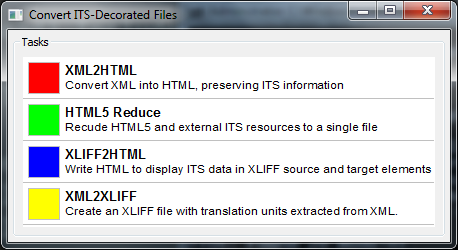
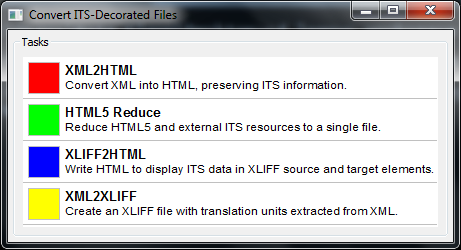
Fixed typos found by Niki

diff --git a/docs/html/Programming_Guide.html b/docs/html/Programming_Guide.html
@@ -30,7 +30,7 @@
   <ul   class='indexList indexList2'>
     <li class='indexItem indexItem2'><a href='#Overview'>Overview</a>
     <ul   class='indexList indexList3'>
-      <li class='indexItem indexItem3'><a href='#ITS'>ITS</a>
+      <li class='indexItem indexItem3'><a href='#Internationalization_Tag_Set'>Internationalization Tag Set</a>
       <li class='indexItem indexItem3'><a href='#WICS'>WICS</a>
     </ul>
     <li class='indexItem indexItem2'><a href='#Preserving_ITS_Information_During_Conversion'>Preserving ITS Information During Conversion</a>
@@ -76,11 +76,11 @@ name="Overview"
 >Overview</a></h2>
 
 <h3><a class='u' href='#___top' title='click to go to top of document'
-name="ITS"
->ITS</a></h3>
+name="Internationalization_Tag_Set"
+>Internationalization Tag Set</a></h3>
 
-<p>ITS,
-or the Internationalization Tag Set,
+<p>The Internationalization Tag Set,
+or ITS,
 is a standard for adding internalization-related information to XML,
 XLIFF,
 and HTML5 documents.
@@ -217,7 +217,7 @@ The software has only been tested on Windows 7 with Strawberry Perl thus far; I 
 but don&#39;t expect the test suite to pass just yet,
 as EOL differences tend to cause failures during porting.</p>
 
-<p>There are also plenty of CPAN dependencies (CPAN is an archive that contains open source Perl packages).
+<p>There are also plenty of CPAN dependencies (CPAN is an archive that contains open source Perl packages.).
 The easy way to install all of the dependencies is to use <a href="https://metacpan.org/module/cpanm" class="podlinkurl"
 ><code>cpanm</code></a> and the latest release archive (the files inside the <code>releases</code> directory).
 After installing <code>cpanm</code> (using the command <code>cpan App::cpanminus</code>),
@@ -249,7 +249,7 @@ name="Working_with_the_Code"
 ><code>releases</code></a></dt>
 
 <dd>
-<p>contains release archives for installing the application code on your computer or releasing to CPAN.
+<p>Contains release archives for installing the application code on your computer or releasing to CPAN.
 Each archive is marked with a version number (<code>ITS-WICS-0.01</code>,
 etc.).</p>
 
@@ -257,49 +257,49 @@ etc.).</p>
 ><code>docs</code></a></dt>
 
 <dd>
-<p>contains overall WICS documentation and generated HTML documentation for the application code</p>
+<p>Contains overall WICS documentation and generated HTML documentation for the application code.</p>
 
 <dt><a name="scripts"
 ><code>scripts</code></a></dt>
 
 <dd>
-<p>contains scripts that aren&#39;t directly part of the WICS applications; these perform related functions like generating documentation and sample files</p>
+<p>Contains scripts that aren&#39;t directly part of the WICS applications; these perform related functions like generating documentation and sample files.</p>
 
 <dt><a name="lib"
 ><code>lib</code></a></dt>
 
 <dd>
-<p>contains code for performing conversions and processing ITS</p>
+<p>contains code for performing conversions and processing ITS.</p>
 
 <dt><a name="bin"
 ><code>bin</code></a></dt>
 
 <dd>
-<p>contains two applications for performing the WICS tasks: a command line interface (<code>WICS.pl</code>) and a graphical interface (<code>WICS-GUI.pl</code>).</p>
+<p>Contains two applications for performing the WICS tasks: a command line interface (<code>WICS.pl</code>) and a graphical interface (<code>WICS-GUI.pl</code>).</p>
 
 <dt><a name="t"
 ><code>t</code></a></dt>
 
 <dd>
-<p>contains the unit tests for verifying the functionality of the converters</p>
+<p>Contains the unit tests for verifying the functionality of the converters.</p>
 
 <dt><a name="TODO.txt"
 ><code>TODO.txt</code></a></dt>
 
 <dd>
-<p>Contains some TODO notes for future maintenance</p>
+<p>Contains some TODO notes for future maintenance.</p>
 
 <dt><a name="README.mkdn"
 ><code>README.mkdn</code></a></dt>
 
 <dd>
-<p>a generated file that describes the functionality of <code>ITS::WICS</code>.</p>
+<p>A generated file that describes the functionality of <code>ITS::WICS</code>.</p>
 
 <dt><a name="dist.ini"
 ><code>dist.ini</code></a></dt>
 
 <dd>
-<p>a settings file for Dist::Zilla.
+<p>A settings file for Dist::Zilla.
 More on this later.</p>
 </dd>
 </dl>
@@ -334,7 +334,7 @@ There are two ways to run the tests:</p>
 <li>One at a time: <code>perl -Ilib t/name-of-test.t</code>.
 The <code>-I</code> option adds the <code>lib</code> folder to the include path.</li>
 
-<li>All at once: <code>prove -lrv</code> or if you&#39;re less patient,
+<li>All at once using: <code>prove -lrv</code> or if you&#39;re less patient,
 <code>prove -lr -j4</code>.
 The options do the following:
 <dl>
@@ -408,7 +408,8 @@ then use the command <code>dzil install</code> (see also <a href="#Building_a_Re
 >&#34;Building a Release&#34;</a>).</p>
 
 <p>Once you&#39;ve installed the distribution,
-you can use the WICS CLI and the WICS GUI from the command line any time using <code>WICS</code> and <code>WICS-GUI</code> (add <code>.pl</code> to those if not on Windows).
+you can use the WICS CLI and the WICS GUI from the command line using <code>WICS</code> and <code>WICS-GUI</code>,
+respectively (add <code>.pl</code> to those if not on Windows).
 You can also use any of the included modules in your own Perl scripts,
 as well as view their documentation from the command line via <code>perldoc</code>.</p>
 
@@ -552,7 +553,7 @@ either by installing it or by adding the <code>lib</code> folder to the include 
 <p>Here&#39;s a sample command to make the standalone executable.
 We use <code>-l</code> to make <code>wxpar</code> include the DLL files in the executable file.
 The working directory contains the ITS-WICS distribution,
-and we use <code>-I</code> to include its <code>lib</code> folders (remember that this is unnecessary if this distribution has been installed).
+and we use <code>-I</code> to include its <code>lib</code> folders (This is unnecessary if this distribution has been installed.).
 We use <code>-o</code> to specify the name of the created executable.
 We pass the path to this script as the final argument.
 Run in a Windows CMD,
@@ -596,7 +597,7 @@ name="ITS"
 
 <p>It would be useful to allow the calling code to provide default ITS parameter values, as specified in Section 5.3.5 of the ITS spec.</p>
 
-<p>No attempt is made at recovering from errors caused by invalid XML. Invalid input causes parsing to halt and an error to be thrown.</p>
+<p>No attempt is made to recover from errors caused by invalid XML. Invalid input causes parsing to halt and an error to be thrown.</p>
 
 <p>No external schemas/DTDs are used to validate the XML input.</p>
 

diff --git a/docs/html/User_Guide.html b/docs/html/User_Guide.html
@@ -97,16 +97,24 @@ name="WICS"
 It is a project which seeks to make ITS markup more useful by displaying it in a more user-friendly manner within a web browser.
 It has two components:</p>
 
-<p>* A converter for generating HTML5 or XLIFF from original documents (this project) * JavaScript to display ITS data in Web browsers</p>
+<ul>
+<li>A converter for generating HTML5 or XLIFF from original documents (this project)</li>
+
+<li>JavaScript to display ITS data in Web browsers</li>
+</ul>
 
 <p>The applications described in this document accomplish four file conversion tasks:</p>
 
-<p>1.
-Convert ITS-decorated XML into HTML5 for displaying the contents and ITS metadata (XML2HTML) 2.
-Reduce ITS-decorated HTML5 documents to be usable as a single file (HTML reducer) 3.
-Convert ITS-decorated XLIFF into HTML5 for displaying the contents of <code>&#60;source&#62;</code> and and <code>&#60;target&#62;</code> elements with associated ITS metadata (XLIFF2HTML) 4.
-Extract text segments and their associated ITS metadata and create an XLIFF file with equivalent ITS decorating the translation units (XML2XLIFF).
-This application is of limited functionality and is demonstrated through only one sample conversion.</p>
+<ol>
+<li>Convert ITS-decorated XML into HTML5 for displaying the contents and ITS metadata (XML2HTML)</li>
+
+<li>Reduce ITS-decorated HTML5 documents to be usable as a single file (HTML reducer)</li>
+
+<li>Convert ITS-decorated XLIFF into HTML5 for displaying the contents of <code>&#60;source&#62;</code> and and <code>&#60;target&#62;</code> elements with associated ITS metadata (XLIFF2HTML)</li>
+
+<li>Extract text segments and their associated ITS metadata and create an XLIFF file with equivalent ITS decorating the translation units (XML2XLIFF).
+This application is of limited functionality and is demonstrated through only one sample conversion.</li>
+</ol>
 
 <p>Both the WICS and WICS-GUI application can accomplish all four tasks,
 but WICS requires the use of a command line.</p>
@@ -149,8 +157,8 @@ It takes longer the first time you use it.</p>
 </center>
 
 
-<p>Upon double-clicking on the task that you wish to perform,
-you are given another window like that shown below:</p>
+<p>Upon double-clicking the task that you wish to perform,
+you are given another window:</p>
 
 <center>
     <img
@@ -163,7 +171,7 @@ you are given another window like that shown below:</p>
 <p>Click on <code>Choose file...</code> to choose one or more files that you would like to process with the chosen task.
 If you have chosen <code>XML2HTML</code>,
 for example,
-then you should choose one more more ITS-decorated XML files that you would like to convert to HTML for viewing in your web browser.</p>
+then you should choose one or more ITS-decorated XML files that you would like to convert to HTML for viewing in your web browser.</p>
 
 <p>After you have chosen the files you would like to process,
 they are listed in the white box.
@@ -190,7 +198,7 @@ but in general there are two possible problems:</p>
 <li>The input file you provided is not well-formed.
 For example,
 your XML file might have a mismatched tag (like <code>&#60;xml&#62;&#60;a&#62;&#60;/b&#62;&#60;/xml&#62;</code>),
-or your might have two separate elements with the same <code>xml:id</code> attribute value.</li>
+or you might have two separate elements with the same <code>xml:id</code> attribute value.</li>
 
 <li>The input file you provided should not be processed by the given converter.
 For example,
@@ -218,7 +226,7 @@ The options are described below:</p>
 
 <dd>
 <p>This argument is required.
-It pecifies which operation is to be carried out on the input file.
+It specifies which operation is to be carried out on the input file.
 Each name corresponds to a WICS conversion task.</p>
 
 <dt><a name="-i_file_or_-input_file"
@@ -227,20 +235,20 @@ Each name corresponds to a WICS conversion task.</p>
 <dd>
 <p>This argument is required.
 It provides the path to the input file to convert.
-This option may be provided multiple times to convert multiple files.</p>
+This option may be provided multiple times (<code>-i file1 -i file2 etc.</code>) to convert multiple files.</p>
 
 <dt><a name="-w_or_--overwrite"
 ><code>-w</code> or <code>--overwrite</code></a></dt>
 
 <dd>
-<p>This option Specifies that the script may overwrite existing files when printing the conversion results.
+<p>This option specifies that the script may overwrite existing files when printing the conversion results.
 Filenames are created by stripping the extension from the input file and replacing it with the extension for the target format (html,
 xliff,
 etc.).
 If overwriting existing files is not permitted,
 additional numbers (-1,
 -2,
-etc.) will be appended to the filename to insure uniqueness.</p>
+etc.) will be appended to the filename to ensure uniqueness.</p>
 
 <p>This script will never write over the input file.</p>
 </dd>

diff --git a/docs/html/WICS.html b/docs/html/WICS.html
@@ -55,7 +55,7 @@ name="REQUIRED_ARGUMENTS"
 >-i | --input &#60;file&#62;...</a></dt>
 
 <dd>
-<p>This argument is required. It provides the path to the input file to convert. This option may be provided multiple times to convert multiple files.</p>
+<p>This argument is required. It provides the path to the input file to convert. This option may be provided multiple times (<code>-i file1 -i file2 etc.</code>) to convert multiple files.</p>
 
 <dt><a name="--xml2html,_--xliff2html,_--xml2xliff_or_--reduceHtml"
 >--xml2html, --xliff2html, --xml2xliff or --reduceHtml</a></dt>
@@ -74,7 +74,7 @@ name="OPTIONS"
 >-w | --overwrite</a></dt>
 
 <dd>
-<p>Specifies that the script may overwrite existing files when creating converted output. Filenames are created by stripping the extension from the input file and replacing it with the extension for the target format (html, xliff, etc.). If overwriting existing files is not permitted, additional numbers (-1, -2, etc.) will be appended to the filename to insure uniqueness.</p>
+<p>Specifies that the script may overwrite existing files when creating converted output. Filenames are created by stripping the extension from the input file and replacing it with the extension for the target format (html, xliff, etc.). If overwriting existing files is not permitted, additional numbers (-1, -2, etc.) will be appended to the filename to ensure uniqueness.</p>
 
 <p>This script will never write over the input file.</p>
 </dd>

diff --git a/docs/html/WICS-GUI.html b/docs/html/WICS-GUI.html
@@ -44,11 +44,14 @@ Execute the conversion process by clicking &#34;Convert&#34;.
 A frame with the log messages will pop up.
 Errors are shown in red.</p>
 
-<p>Converted files are written to the directory that the source files exist in.
-They keep the name of their source file,
-but with a different extension.
-If the &#34;overwrite existing files&#34; box is not checked and a file with the given name and extension already exists,
-then a number will be appended to the end of the file name to make it unique.</p>
+<p>Converted files are written to the same directory as the source file.
+Filenames are created by stripping the extension from the input file and replacing it with the extension for the target format (html,
+xliff,
+etc.).
+If a file with that name already exists,
+additional numbers (-1,
+-2,
+etc.) will be appended to the filename to ensure uniqueness.</p>
 
 <h1><a class='u' href='#___top' title='click to go to top of document'
 name="STANDALONE_EXECUTABLE"

diff --git a/docs/cpanStyle.css b/docs/cpanStyle.css
@@ -1,3 +1,18 @@
+/*These two are edits to the actual CPAN style. Just need to display the page
+title because Pod::Simple::HTML doesn't do that for whatever reason.*/
+head, title {
+  display: block;
+  display: none\9; /* IE 6, 7 and 8 don’t fully support this technique — hide the elements in these browsers */
+ }
+
+title {
+  background: transparent;
+  color: #006699;
+  font-size: x-large;
+  font-weight: bold;
+  font-family: arial, sans-serif;
+}
+
 BODY, .logo { background: white; }
 
 BODY {
@@ -42,7 +57,7 @@ input { margin: 2px; }
   background: #006699;
   margin: 1ex 0;
   padding: 1px;
-} 
+}
 
 .menubar A {
   padding: 0.8ex;

diff --git a/docs/html/cpanStyle.css b/docs/html/cpanStyle.css
@@ -1,3 +1,18 @@
+/*These two are edits to the actual CPAN style. Just need to display the page
+title because Pod::Simple::HTML doesn't do that for whatever reason.*/
+head, title {
+  display: block;
+  display: none\9; /* IE 6, 7 and 8 don’t fully support this technique — hide the elements in these browsers */
+ }
+
+title {
+  background: transparent;
+  color: #006699;
+  font-size: x-large;
+  font-weight: bold;
+  font-family: arial, sans-serif;
+}
+
 BODY, .logo { background: white; }
 
 BODY {
@@ -42,7 +57,7 @@ input { margin: 2px; }
   background: #006699;
   margin: 1ex 0;
   padding: 1px;
-} 
+}
 
 .menubar A {
   padding: 0.8ex;
